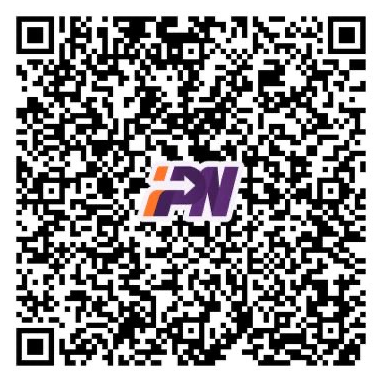
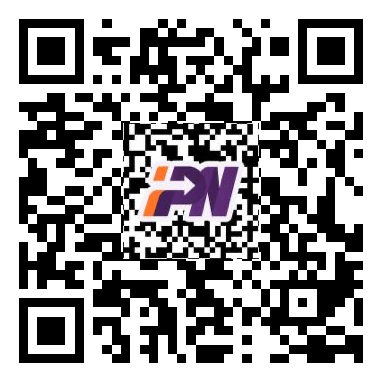
Use InstaPay payment link instead of the old handle
Default INSTAPAY_ADDRESS is now the ipn.eg payment link; the chat card shows a
pay button for links, the subscribe page copies the link, and the QR code is
regenerated to encode it.

Claude-Session: https://claude.ai/code/session_01NHA54o1K2UBw2diwNYuhFQ

diff --git a/frontend/src/components/support/chat-widget.tsx b/frontend/src/components/support/chat-widget.tsx
@@ -748,24 +748,36 @@ function InstapayCard({
   onCopy: (text: string) => void;
 }) {
   if (!info.address) return null;
+  const isLink = /^https?:\/\//i.test(info.address);
   return (
     <div className="mt-2 rounded-lg border bg-card p-2.5">
-      <p className="text-[11px] text-muted-foreground">حساب InstaPay</p>
-      <code className="mt-0.5 block text-[13px] font-semibold text-foreground" dir="ltr">
-        {info.address}
-      </code>
+      <p className="text-[11px] text-muted-foreground">{isLink ? "لينك دفع InstaPay" : "حساب InstaPay"}</p>
+      {!isLink && (
+        <code className="mt-0.5 block text-[13px] font-semibold text-foreground" dir="ltr">
+          {info.address}
+        </code>
+      )}
       {info.accountName && (
         <p className="mt-0.5 text-[11.5px] text-muted-foreground">{info.accountName}</p>
       )}
-      <Button
-        size="sm"
-        variant="outline"
-        className="mt-2 h-7 px-2 text-[12px]"
-        onClick={() => onCopy(info.address as string)}
-      >
-        <Copy className="size-3.5" />
-        نسخ
-      </Button>
+      <div className="mt-2 flex gap-2">
+        {isLink && (
+          <Button asChild size="sm" className="h-7 px-2 text-[12px]">
+            <a href={info.address} target="_blank" rel="noopener noreferrer">
+              ادفع دلوقتي
+            </a>
+          </Button>
+        )}
+        <Button
+          size="sm"
+          variant="outline"
+          className="h-7 px-2 text-[12px]"
+          onClick={() => onCopy(info.address as string)}
+        >
+          <Copy className="size-3.5" />
+          {isLink ? "نسخ اللينك" : "نسخ"}
+        </Button>
+      </div>
     </div>
   );
 }

diff --git a/frontend/src/components/billing/subscribe-panel.tsx b/frontend/src/components/billing/subscribe-panel.tsx
@@ -68,7 +68,7 @@ export function SubscribePanel({
 
   const copyInstapay = async () => {
     if (!user) {
-      toast.info("سجّل دخولك الأول عشان تنسخ عنوان إنستاباي");
+      toast.info("سجّل دخولك الأول عشان تنسخ لينك الدفع");
       return;
     }
     try {
@@ -81,7 +81,7 @@ export function SubscribePanel({
         return;
       }
       await navigator.clipboard.writeText(address);
-      toast.success("تم نسخ عنوان إنستاباي");
+      toast.success("تم نسخ لينك الدفع");
     } catch {
       toast.error("تعذر النسخ — امسح الكود بدلًا من كده");
     }
@@ -207,7 +207,7 @@ export function SubscribePanel({
         />
         <Button variant="outline" onClick={() => void copyInstapay()}>
           <Copy className="size-4" />
-          انسخ عنوان إنستاباي
+          انسخ لينك الدفع
         </Button>
       </div>
 

diff --git a/backend/src/billing/plans.js b/backend/src/billing/plans.js
@@ -69,11 +69,11 @@ export const ADDONS = {
  * signed-in user and nowhere else — never from the public /api/billing/plans
  * — so the account isn't published to anyone who can curl the site, and every
  * disclosure belongs to an account we can match a transfer against.
- * INSTAPAY_ADDRESS overrides the default handle (the same one the /subscribe
- * page's QR code encodes).
+ * INSTAPAY_ADDRESS overrides the default payment link (the same one the
+ * /subscribe page's QR code encodes).
  */
 export const INSTAPAY = {
-  address: process.env.INSTAPAY_ADDRESS ?? 'hassansmm@instapay',
+  address: process.env.INSTAPAY_ADDRESS ?? 'https://ipn.eg/S/hassansmm/instapay/3iUOPP',
   accountName: process.env.INSTAPAY_ACCOUNT_NAME ?? null,
 };
 
